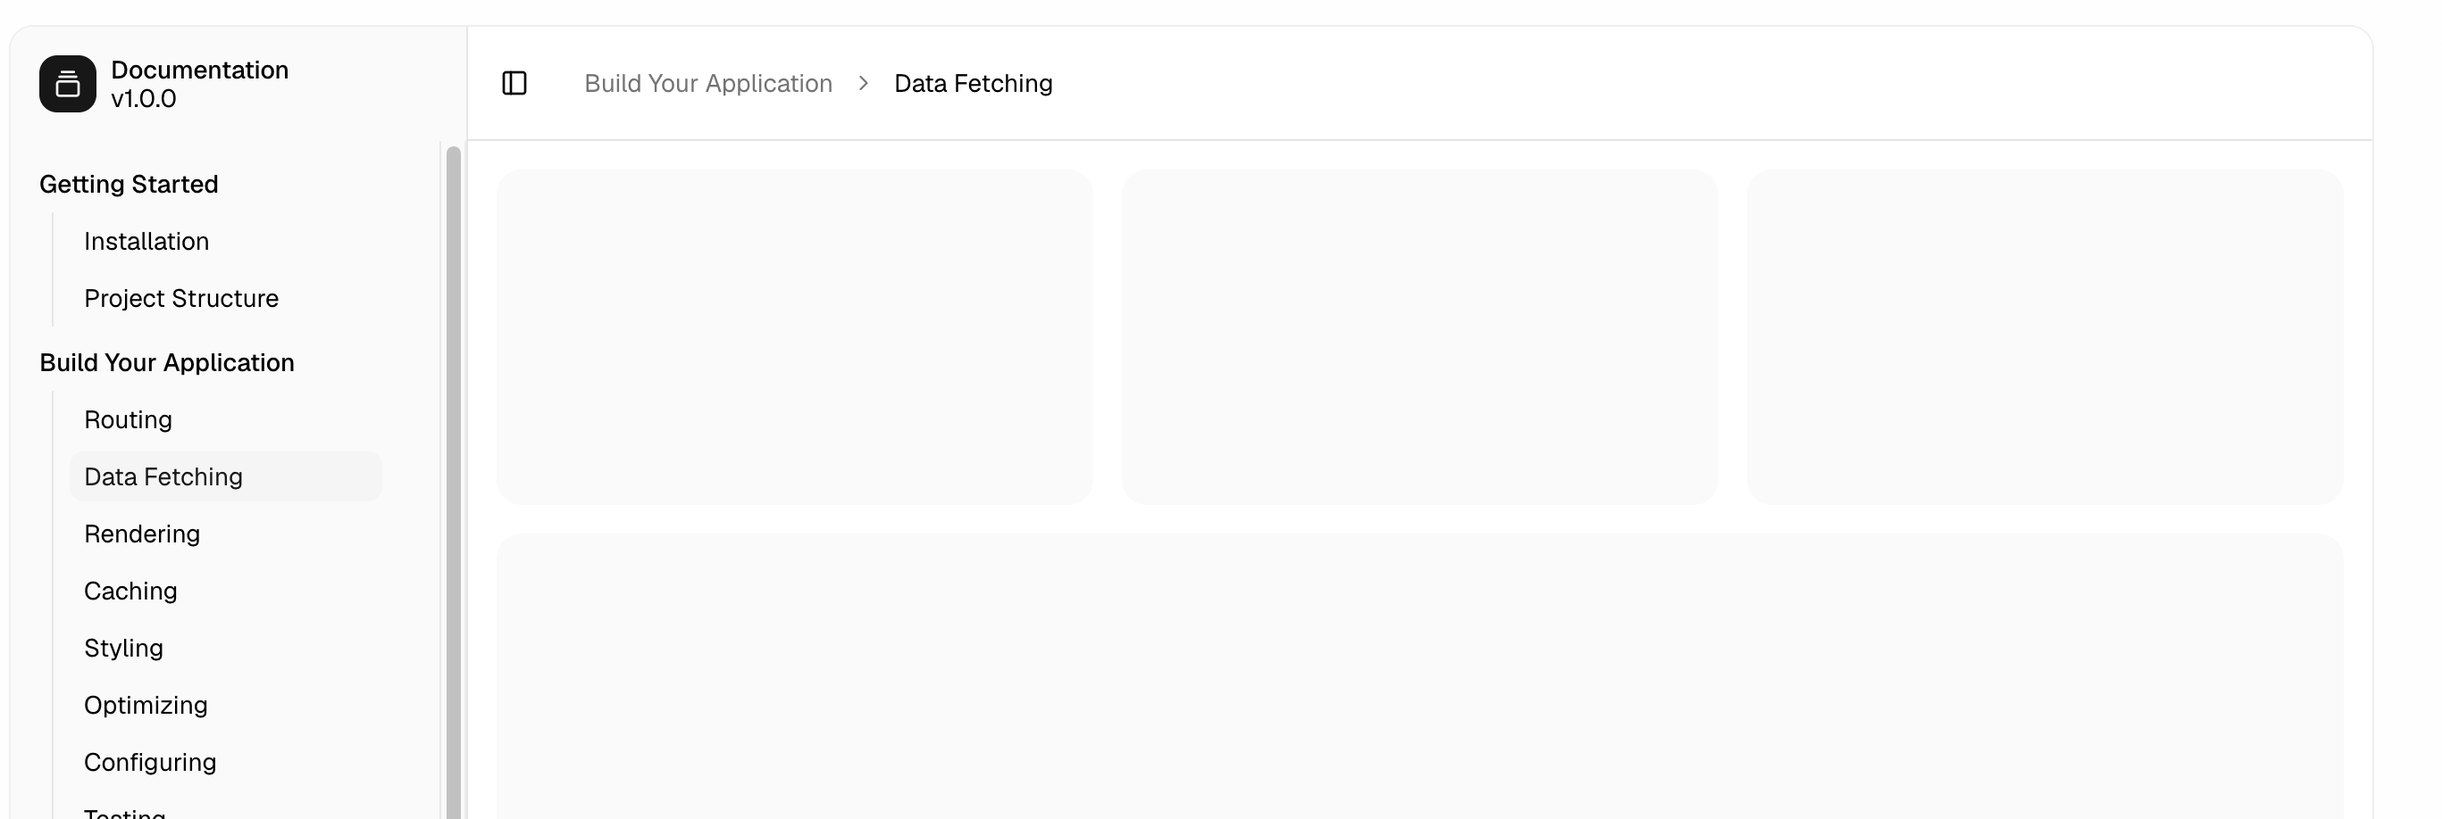
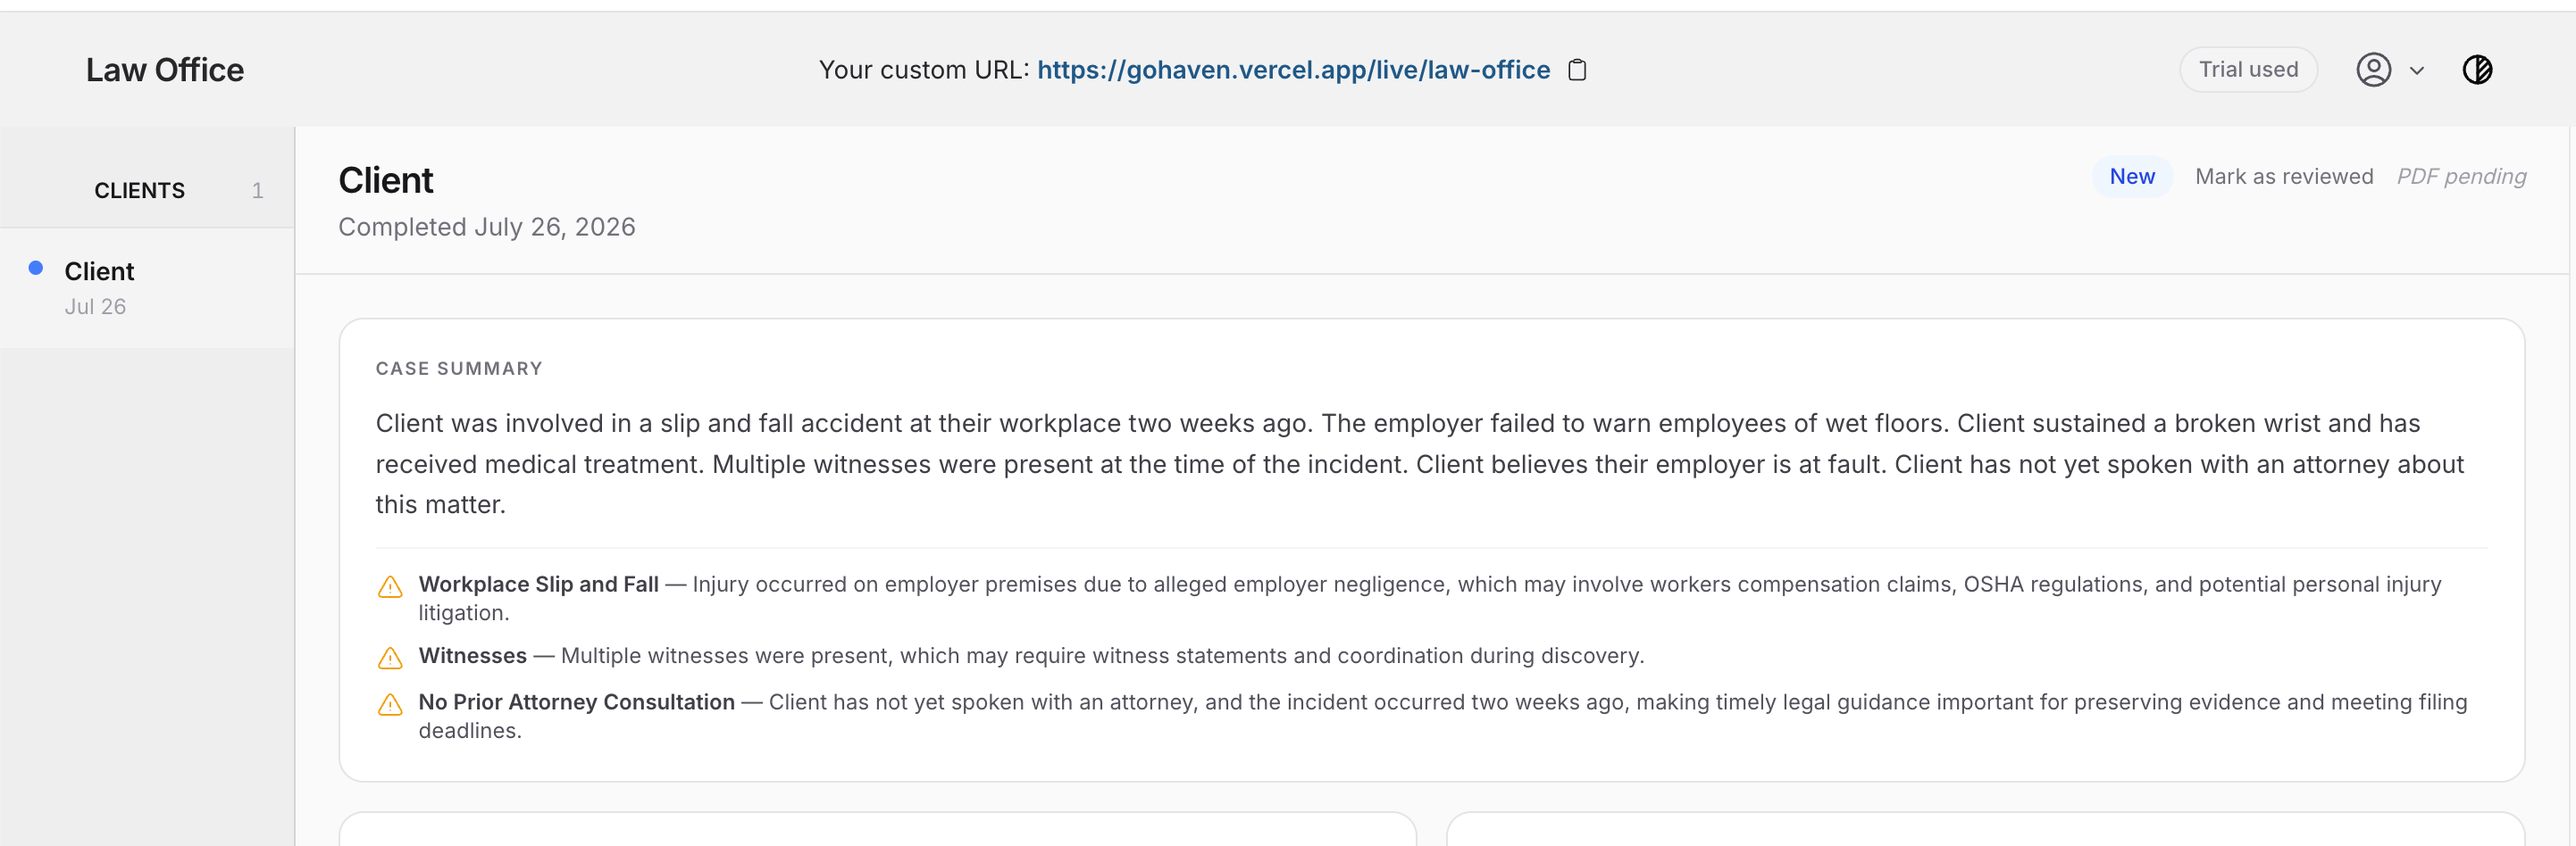
Updated GTM to GoogleAnalytics and updated Summary

diff --git a/app/api/chat/stream/route.ts b/app/api/chat/stream/route.ts
@@ -30,8 +30,7 @@ Your goals and constraints are as follows:
 - The client has already provided their name and email address. Never ask for this information.
 
 **The Conversation Flow (Dynamic Triage):**
-- Question 1 (The Triage): Ask the user "How can we help you?". 
-- Questions 2, 3, and 4 (The Fact-Finding): Based on the user's answer to Question 1, dynamically ask 3 distinct, highly relevant intake questions tailored to their specific legal need. 
+- Questions 1, 2, 3, and 4 (The Fact-Finding): Based on the user's initial response, dynamically ask 4 distinct, highly relevant onboarding questions tailored to their specific legal need. 
   - If Personal Injury: Ask about the date of the incident, the type of injury, and if they have received medical treatment.
   - If Estate Planning: Ask about marital status, minor children, and real estate ownership.
   - If Family Law (Divorce/Custody): Ask if the other party has been served, if there are minor children, and if any court dates are pending.
@@ -63,10 +62,6 @@ const sseHeaders = {
 
 // Claude calls extract_chat_session_data when the onboarding conversation is complete.
 // completeSession() is called and the session_complete SSE event.
-// The tool input is PDF generation source of truth and is stored in chat_records.structured_data before PDF render.
-// flag_complexity is consolidated here as complexity_flags[] rather than a separate tool call.
-
-
 function jsonError(message: string, status: number): Response {
     return new Response(JSON.stringify({ error: message }), {
         status,
@@ -74,8 +69,6 @@ function jsonError(message: string, status: number): Response {
     });
 }
 
-// Hook fires after message_stop, before controller.close().
-// This is the only window where the hook can emit additional SSE events to the client.
 function buildStream(
     stream: ReturnType<typeof anthropic.messages.stream>,
     onMessageStop?: CompleteHook,
@@ -115,8 +108,6 @@ function buildStream(
                     }
                 }
 
-                // Loop has exited after message_stop but controller is still open.
-                // Run the completion hook before finally closes it.
                 if (onMessageStop) await onMessageStop(controller, encoder);
 
                 if (isClientConnected) {
@@ -150,7 +141,6 @@ export async function POST(req: NextRequest) {
         isDemo
     } = body ?? {};
 
-    // Demo chat
     if (isDemo) {
         if (!Array.isArray(messages)) {
             return jsonError('messages must be an array', 400);
@@ -168,9 +158,9 @@ export async function POST(req: NextRequest) {
                     },
                     {
                         type: 'text',
-                        text: `${greeting(localHour ?? new Date().getUTCHours())}.
-                        You are speaking to a potential client so the greeting needs to be as follows after the time of day greeting:
-                        "Thank you for reaching out to us!"`,
+                        text: `Please use the following greeting verbatim: 
+                    "${greeting(localHour ?? new Date().getUTCHours())}.
+                    Thank you for contacting us! How can we help you today?"`
                     },
                 ],
                 messages: messages.length === 0
@@ -237,7 +227,7 @@ export async function POST(req: NextRequest) {
                 },
                 {
                     type: 'text',
-                    text: `Please use the following greeting: 
+                    text: `Please use the following greeting verbatim: 
                     "${greeting(localHour ?? new Date().getUTCHours())}, ${clientName}.
                     Thank you for contacting ${firmName}. How can we help you today?"`
                 },

diff --git a/app/layout.tsx b/app/layout.tsx
@@ -3,7 +3,7 @@ import { Inter } from "next/font/google";
 import "./globals.css";
 import { cn } from "@/lib/utils";
 import { Providers } from "@/components/providers"
-import { GoogleTagManager } from '@next/third-parties/google'
+import { GoogleAnalytics } from '@next/third-parties/google'
 
 
 const inter = Inter({
@@ -27,7 +27,7 @@ export default function RootLayout({
       className={cn("antialiased", inter.variable)}
       suppressHydrationWarning
     >
-      <GoogleTagManager gtmId="G-3ZS0YB5CJ3" />
+      <GoogleAnalytics gaId={process.env.GA_ID!} />
       <body className="min-h-full font-inter flex flex-col" suppressHydrationWarning>
         <Providers>
           {children}
